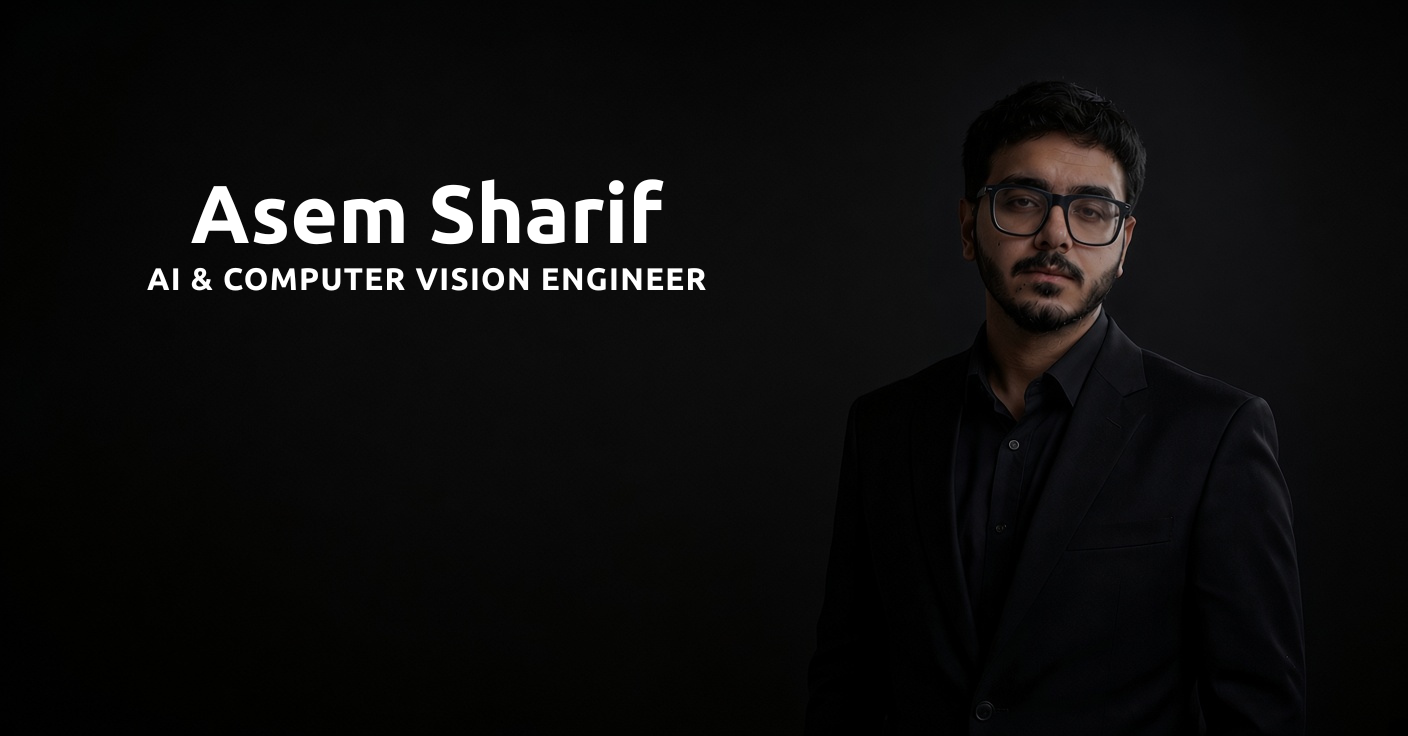
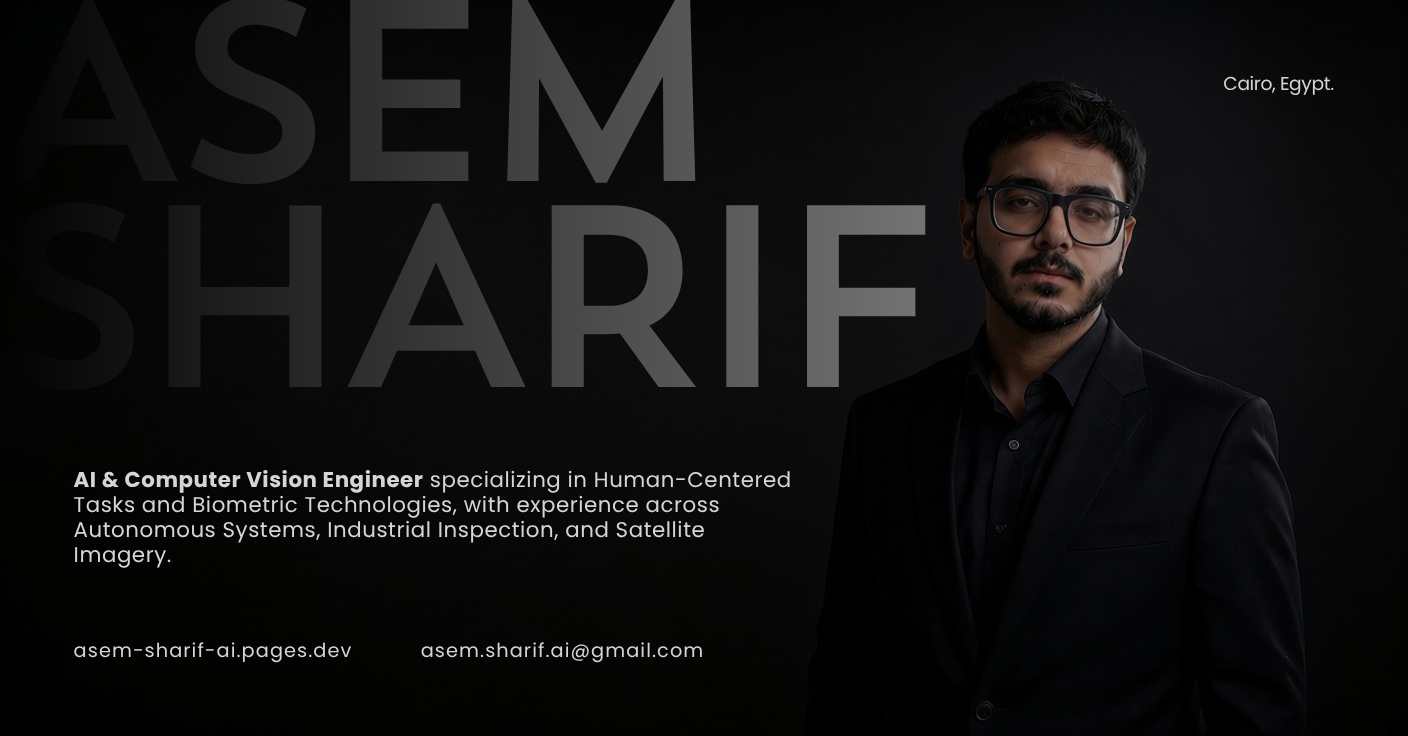
Initial

diff --git a/style.css b/style.css
@@ -1722,6 +1722,7 @@ footer a { border-bottom: none; text-decoration: none;}
   min-height: 140px;
   resize: none;
   overflow: hidden;
+  field-sizing: content;
 }
 
 .form-stack {
@@ -3430,6 +3431,7 @@ input[type='checkbox']:checked::after {
   outline: none;
   overflow: hidden;
   padding: 6px 10px;
+  field-sizing: content;
   resize: none;
   transition: var(--search-transition);
   width: 100%;
